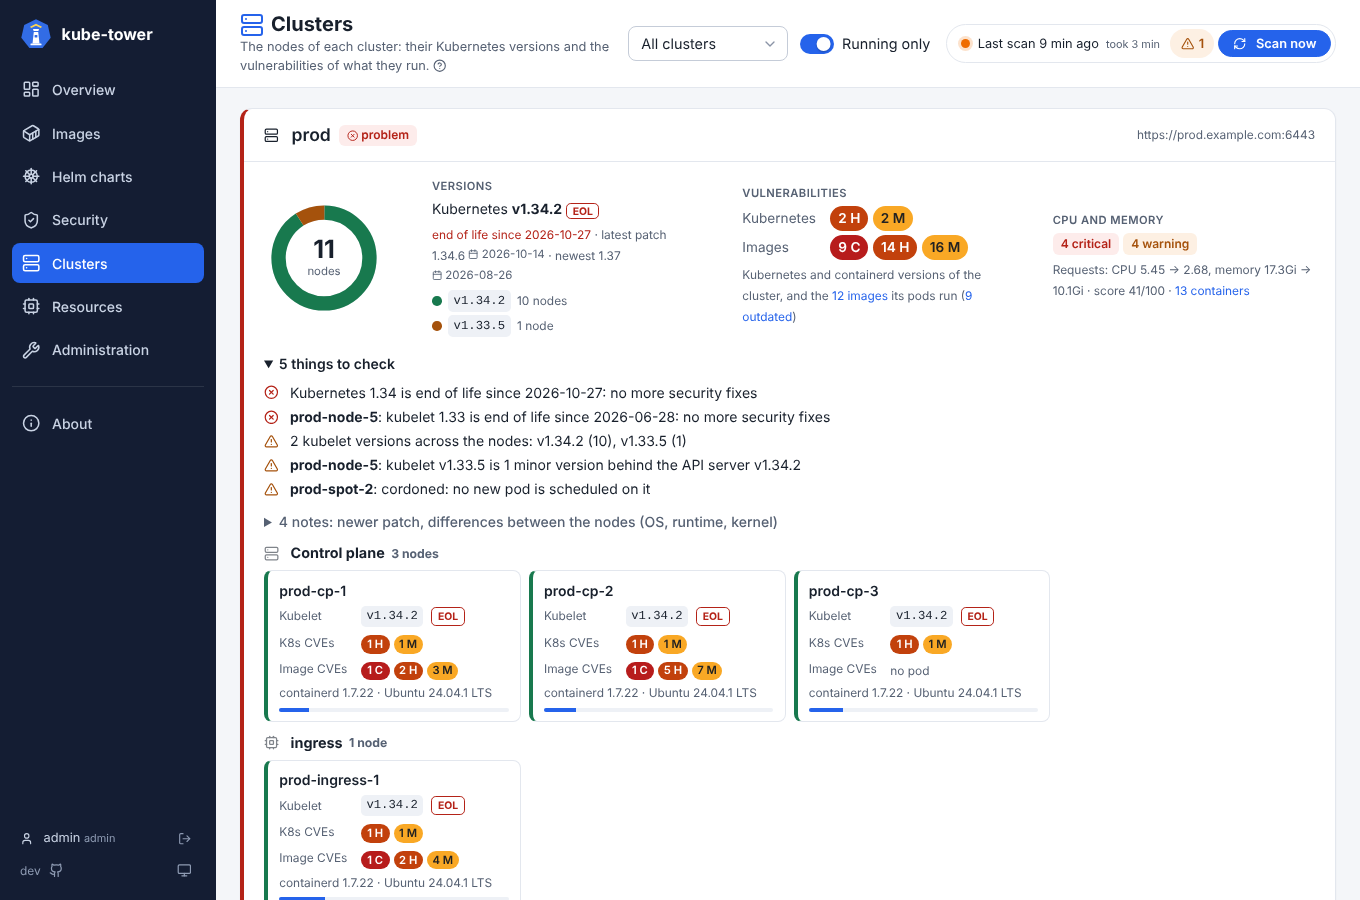
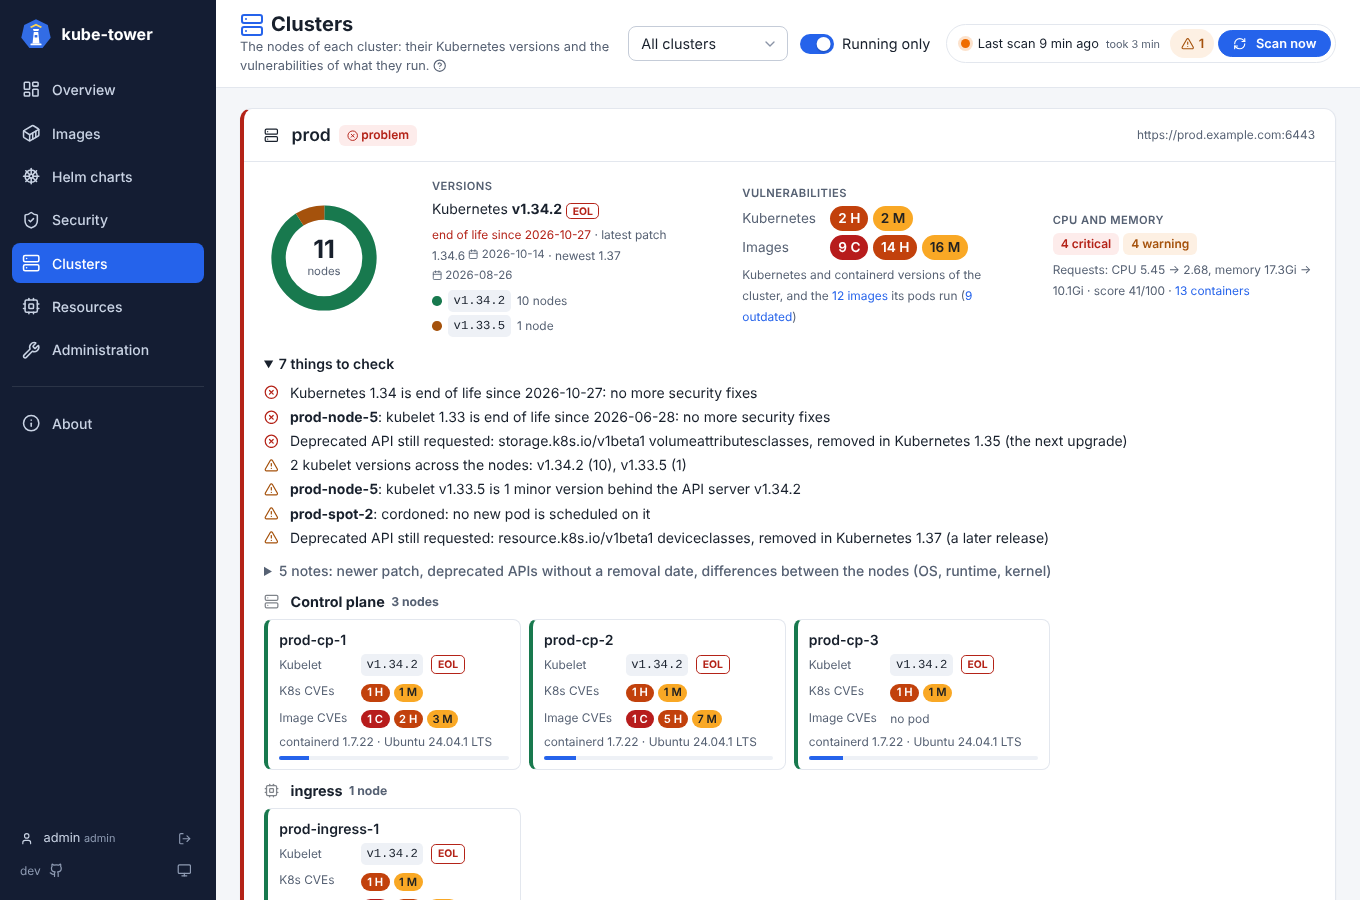
Show the deprecated APIs on the site and the Clusters screenshots
Claude-Session: https://claude.ai/code/session_01RHrAN259RMfmXhb1PG9q7k

Changed region(s): [[0.1853, 0.4667, 0.8338, 1.0], [0.2162, 0.4044, 0.2779, 0.4356]]

diff --git a/site/site.js b/site/site.js
@@ -19,7 +19,7 @@
     "image-detail": "Image details: rescans at hand, the version change and the CVEs by severity at a glance, then where the image runs, its versions and digests and its CVE list, each section foldable.",
     "charts": "Helm charts deployed by ArgoCD, with the tree of their subcharts and the latest version of each.",
     "security": "Trivy Operator reports of every cluster: misconfigurations, exposed secrets, RBAC, infrastructure and compliance.",
-    "clusters-page": "Every cluster at a glance: its nodes by Kubernetes version, the vulnerabilities of what they run, and one card per node.",
+    "clusters-page": "Every cluster at a glance: its nodes by Kubernetes version, the vulnerabilities of what they run, the deprecated APIs still requested, and one card per node.",
     "resources": "CPU and memory recommendations of krr: the containers furthest from their usage, totals per cluster, the block to paste.",
     "administration": "Administration: the state of every role and pod, rescans, Trivy database, connectivity and credential tests, logs.",
     "dark": "A dark theme, chosen by your system or by you.",

diff --git a/site/index.html b/site/index.html
@@ -105,7 +105,7 @@
           <article class="card">
             <svg><use href="icons.svg#i-clusters"/></svg>
             <h3>All your clusters</h3>
-            <p>Register clusters ArgoCD-style with a Secret, or reuse the cluster Secrets ArgoCD already has. See their nodes by group, with the kubelets that differ or lag behind.</p>
+            <p>Register clusters ArgoCD-style with a Secret, or reuse the cluster Secrets ArgoCD already has. See their nodes by group, with the kubelets that differ or lag behind, and the deprecated APIs still in use before an upgrade removes them.</p>
           </article>
           <article class="card">
             <svg><use href="icons.svg#i-key"/></svg>
